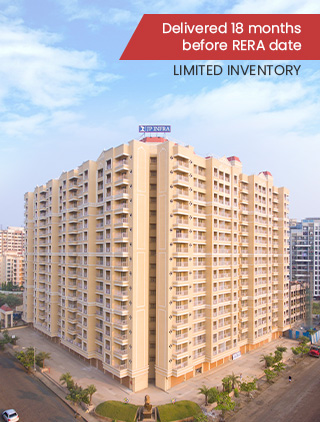
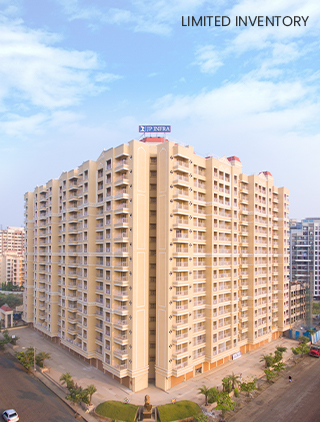
images changes on index , nav name added and redev images added

Changed region(s): [[0.375, 0.0308, 1.0, 0.1848]]

diff --git a/redevelopment_projects.php b/redevelopment_projects.php
@@ -93,19 +93,19 @@
         </div>
         <div class="main-func">
             <div class="proj_heading">
-                <div class="srw-tab proj_name" id="jp_decks">
+                <div class="srw-tab proj_name" id="solar">
                     <div class="proj_main blue1_active" id="blue1">
                         <h6 class="txt-upper" id="h61">jp decks</h6>
                     </div>
                     <div class="triangle_down td_active" id="triangle_1"></div>
                 </div>
-                <div class="srw-tab proj_name" id="chalet_amar">
+                <div class="srw-tab proj_name" id="water">
                     <div class="proj_main" id="blue2">
                         <h6 class="tc-blue txt-upper" id="h62">chalet amar</h6>
                     </div>
                     <div class="triangle_down" id="triangle_2"></div>
                 </div>
-                <div class="srw-tab proj_name" id="unity_tower">
+                <div class="srw-tab proj_name" id="waste">
                     <div class="proj_main" id="blue3">
                         <h6 class="tc-blue txt-upper" id="h63">unity towers</h6>
                     </div>
@@ -115,7 +115,7 @@
             <div class="clearfix"></div>
 
             <div class="redev_click">
-                <div class="jp_decks">
+                <div class="solar">
                     <div class="proj_info">
                         <div class="proj_slider">
                             <div class="slider_img">
@@ -145,16 +145,16 @@
                     </div>
                 </div>
 
-                <div class="chalet_amar">
+                <div class="rainwater">
                     <div class="proj_info">
                         <div class="proj_slider">
                             <div class="slider_img">
                                 <img src="img/redevelopment/chalet_amar/Chalet-Amar.jpg" alt="Chalet-Amar">
                             </div>
-<!--                             <div class="slider_img">
+                            <div class="slider_img">
                                 <img src="img/redevelopment/JP-DECKS-02.jpg" alt="jpdecks-img2">
                             </div>
-                            <div class="slider_img">
+<!--                             <div class="slider_img">
                                 <img src="img/redevelopment/JP-DECKS-03.jpg" alt="jpdecks-img3">
                             </div> -->
                         </div>
@@ -170,7 +170,7 @@
                     </div>
                 </div>
 
-                <div class="unity_tower">
+                <div class="waste">
                     <div class="proj_info">
                         <div class="proj_slider">
                             <div class="slider_img">
@@ -202,13 +202,14 @@
 <script>
  $(document).ready(function(){
     
-    $('#jp_decks').click(function(){
-        $('.redev_click .jp_decks').show();
-        $('.redev_click .chalet_amar').hide();
-        $('.redev_click .unity_tower').hide();
+    $('#solar').click(function(){
+        $('.redev_click .solar').show();
+        $('.redev_click .rainwater').hide();
+        $('.redev_click .waste').hide();
         $('#triangle_1').css("display","block")
         $('#triangle_2').css("display","none")
         $('#triangle_3').css("display","none")
+        $('#h61').css("color","#fff")
         $('#h61').css("color","#fff")
         $('#h62').css("color","#2E5689")
         $('#h63').css("color","#2E5689")
@@ -216,10 +217,10 @@
         $('#blue2').css("background-color","#fff")
         $('#blue3').css("background-color","#fff")
     });
-    $('#chalet_amar').click(function(){
-        $('.redev_click .jp_decks').hide();
-        $('.redev_click .chalet_amar').show();
-        $('.redev_click .unity_tower').hide();
+    $('#water').click(function(){
+        $('.redev_click .solar').hide();
+        $('.redev_click .rainwater').show();
+        $('.redev_click .waste').hide();
         $('#triangle_1').css("display","none")
         $('#triangle_2').css("display","block")
         $('#triangle_3').css("display","none")
@@ -230,10 +231,10 @@
         $('#blue2').css("background-color","#2E5689")
         $('#blue3').css("background-color","#fff")
     });
-    $('#unity_tower').click(function(){
-        $('.redev_click .jp_decks').hide();
-        $('.redev_click .chalet_amar').hide();
-        $('.redev_click .unity_tower').show();
+    $('#waste').click(function(){
+        $('.redev_click .solar').hide();
+        $('.redev_click .rainwater').hide();
+        $('.redev_click .waste').show();
         $('#triangle_1').css("display","none")
         $('#triangle_2').css("display","none")
         $('#triangle_3').css("display","block")

diff --git a/redevelopment_mumbai.php b/redevelopment_mumbai.php
@@ -93,19 +93,19 @@
         </div>
         <div class="main-func">
             <div class="proj_heading">
-                <div class="srw-tab proj_name" id="solar">
+                <div class="srw-tab proj_name" id="jp_decks">
                     <div class="proj_main blue1_active" id="blue1">
                         <h6 class="txt-upper" id="h61">jp decks</h6>
                     </div>
                     <div class="triangle_down td_active" id="triangle_1"></div>
                 </div>
-                <div class="srw-tab proj_name" id="water">
+                <div class="srw-tab proj_name" id="chalet_amar">
                     <div class="proj_main" id="blue2">
                         <h6 class="tc-blue txt-upper" id="h62">chalet amar</h6>
                     </div>
                     <div class="triangle_down" id="triangle_2"></div>
                 </div>
-                <div class="srw-tab proj_name" id="waste">
+                <div class="srw-tab proj_name" id="unity_tower">
                     <div class="proj_main" id="blue3">
                         <h6 class="tc-blue txt-upper" id="h63">unity towers</h6>
                     </div>
@@ -115,7 +115,7 @@
             <div class="clearfix"></div>
 
             <div class="redev_click">
-                <div class="solar">
+                <div class="jp_decks">
                     <div class="proj_info">
                         <div class="proj_slider">
                             <div class="slider_img">
@@ -145,7 +145,7 @@
                     </div>
                 </div>
 
-                <div class="rainwater">
+                <div class="chalet_amar">
                     <div class="proj_info">
                         <div class="proj_slider">
                             <div class="slider_img">
@@ -170,7 +170,7 @@
                     </div>
                 </div>
 
-                <div class="waste">
+                <div class="unity_tower">
                     <div class="proj_info">
                         <div class="proj_slider">
                             <div class="slider_img">
@@ -202,14 +202,13 @@
 <script>
  $(document).ready(function(){
     
-    $('#solar').click(function(){
-        $('.redev_click .solar').show();
-        $('.redev_click .rainwater').hide();
-        $('.redev_click .waste').hide();
+    $('#jp_decks').click(function(){
+        $('.redev_click .jp_decks').show();
+        $('.redev_click .chalet_amar').hide();
+        $('.redev_click .unity_tower').hide();
         $('#triangle_1').css("display","block")
         $('#triangle_2').css("display","none")
         $('#triangle_3').css("display","none")
-        $('#h61').css("color","#fff")
         $('#h61').css("color","#fff")
         $('#h62').css("color","#2E5689")
         $('#h63').css("color","#2E5689")
@@ -217,10 +216,10 @@
         $('#blue2').css("background-color","#fff")
         $('#blue3').css("background-color","#fff")
     });
-    $('#water').click(function(){
-        $('.redev_click .solar').hide();
-        $('.redev_click .rainwater').show();
-        $('.redev_click .waste').hide();
+    $('#chalet_amar').click(function(){
+        $('.redev_click .jp_decks').hide();
+        $('.redev_click .chalet_amar').show();
+        $('.redev_click .unity_tower').hide();
         $('#triangle_1').css("display","none")
         $('#triangle_2').css("display","block")
         $('#triangle_3').css("display","none")
@@ -231,10 +230,10 @@
         $('#blue2').css("background-color","#2E5689")
         $('#blue3').css("background-color","#fff")
     });
-    $('#waste').click(function(){
-        $('.redev_click .solar').hide();
-        $('.redev_click .rainwater').hide();
-        $('.redev_click .waste').show();
+    $('#unity_tower').click(function(){
+        $('.redev_click .jp_decks').hide();
+        $('.redev_click .chalet_amar').hide();
+        $('.redev_click .unity_tower').show();
         $('#triangle_1').css("display","none")
         $('#triangle_2').css("display","none")
         $('#triangle_3').css("display","block")

diff --git a/overview.php b/overview.php
@@ -111,7 +111,7 @@ JP Infra believes in bringing serenity back to the bustling and busy nature of t
               <img src="img/about-us/MR.-Vijay-Jain.jpg" alt="leader2">
             </div>
             <div class="leader-box-txt">
-              <h3 class="abtus-color fontweight-bold">MR. Vijay Jain</h3>
+              <h3 class="abtus-color fontweight-bold">Mr. Vijay Jain</h3>
               <h6 class="abtus-color texttransform">chairman</h6>
               <p class="fontweight">Lorem Ipsum has been the industry's standard dummy text ever since the 1500s, when an unknown printer took a galley of type and scrambled it to make a type specimen book. It has survived not only five centuries, but also the leap into electronic typesetting, </p>
             </div>
@@ -121,14 +121,14 @@ JP Infra believes in bringing serenity back to the bustling and busy nature of t
               <img src="img/about-us/MR-Shubham-Jain.jpg" alt="leader2">
             </div>
             <div class="leader-box-txt">
-              <h3 class="abtus-color fontweight-bold">MR. Shubham Jain</h3>
+              <h3 class="abtus-color fontweight-bold">Mr. Shubham Jain</h3>
               <h6 class="abtus-color texttransform">Managing Director</h6>
               <p class="fontweight">Lorem Ipsum has been the industry's standard dummy text ever since the 1500s, when an unknown printer took a galley of type and scrambled it to make a type specimen book. It has survived not only five centuries, but also the leap into electronic typesetting, </p>
             </div>
           </div>
         </div>
 
-        <div class="leader-slider">
+<!--         <div class="leader-slider">
           <div class="leader-box">
             <div class="leader-box-img">
               <img src="img/about-us/MR.-Vijay-Jain.jpg" alt="leader2">
@@ -149,7 +149,7 @@ JP Infra believes in bringing serenity back to the bustling and busy nature of t
               <p class="fontweight">Lorem Ipsum has been the industry's standard dummy text ever since the 1500s, when an unknown printer took a galley of type and scrambled it to make a type specimen book. It has survived not only five centuries, but also the leap into electronic typesetting, </p>
             </div>
           </div>
-        </div>
+        </div> -->
       </div>
       <div class="clearfix"></div>
     </div>

diff --git a/header.php b/header.php
@@ -93,7 +93,7 @@
                            <li class="li-1"><a href="media.php">MEDIA</a></li>
                            <li class="li-1"><a href="nri_corner.php">NRI CORNER</a></li>
                            <li class="li-1"><a href="blog">BLOGS</a></li>
-                           <li class="li-1"><a href="redevelopment_mumbai">REDEVELOPMENT MUMBAI</a></li>
+                           <li class="li-1"><a href="redevelopment_projects.php">REDEVELOPMENT PROJECTS</a></li>
                            <li class="li-3"><a href="work-with-us.php">WORK WITH US</a></li>
                         </ul>
                      </div>
